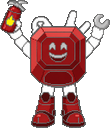
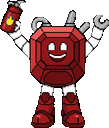
fix: corrige mascote do acerto e fecha os vaos do quiz e das regras
deu-bom.png tinha sido apagado do disco mas o CSS continuava apontando
para ele — o mascote do "Ih, deu bom!" carregava 404. Regerado a partir
do ilumaquinho-feliz.png novo, pelo mesmo pipeline dos outros sprites.

Quiz: enunciado e alternativas maiores, cards empurrados para baixo e
esticados para dividir a sobra (as 52 perguntas do banco tem sempre 4
alternativas, entao a divisao e previsivel). Medidas em vh porque a
faixa cobre de 1200px ao totem de 1920px e valor fixo estourava numa
janela de 1400px. A barra de fogo ficou intacta.

Regras: as duas linhas de cards passam a dividir a faixa livre, em vez
de deixar vermelho morto acima do botao.

Changed region(s): [[0.0, 0.0, 1.0, 1.0]]

diff --git a/static/css/style.css b/static/css/style.css
@@ -766,15 +766,16 @@ body {
 }
 
 /* ---- Regras: 4 cards, não lista ----
-   Os cards têm altura pelo próprio conteúdo, não esticada até preencher
-   a tela — mas o bloco também não fica plantado sozinho no meio de um
-   vermelho vazio: encosta perto do topo, como as outras telas. */
+   As duas linhas de cards dividem toda a faixa livre entre o título e o
+   botão. Com altura só de conteúdo sobrava um vão de vermelho morto
+   acima do rodapé; esticando as linhas o bloco fecha a tela. */
 .palco-regras { justify-content: flex-start; }
 
 .regras-grade {
-  flex: 0 1 auto;
+  flex: 1 1 auto;
   display: grid;
   grid-template-columns: repeat(2, 1fr);
+  grid-template-rows: repeat(2, minmax(0, 1fr));
   gap: 18px;
   margin: 0;
   padding: 0;
@@ -886,9 +887,13 @@ body {
   -webkit-overflow-scrolling: touch;
 }
 
+/* Todas as 52 perguntas do banco têm exatamente 4 alternativas, então
+   deixar os cards crescerem divide a sobra em quatro partes previsíveis —
+   é o que fecha o vão que ficava entre a última opção e a barra de fogo.
+   Em tela apertada o flex-grow não age e o overflow acima assume. */
 .alt-btn {
   display: flex;
-  flex: 0 1 auto;
+  flex: 1 1 auto;
   align-items: center;
   gap: 18px;
   width: 100%;
@@ -1671,10 +1676,25 @@ body {
   /* ---- quiz ---- */
   .quiz-meta { font-size: 0.88rem; }
   #quiz-pontos { font-size: 1rem; }
-  .quiz-pergunta { font-size: clamp(2.1rem, 4vw, 2.8rem); }
-  .quiz-alternativas { gap: 32px; }
-  .alt-btn { min-height: 140px; font-size: 1.6rem; padding: 34px 38px; gap: 32px; }
-  .alt-letra { width: 92px; height: 92px; font-size: 1.3rem; }
+  /* Tipografia e alturas em vh, não em valor fixo: esta faixa vai de 1200px
+     até o totem de 1920px, e o que preenche a tela lá estoura numa janela
+     de 1400px. A margem maior sob o enunciado empurra os cards para baixo. */
+  .quiz-pergunta {
+    font-size: clamp(1.7rem, 2.9vh, 2.6rem);
+    margin-bottom: clamp(28px, 2.6vh, 56px);
+  }
+  .quiz-alternativas { gap: clamp(20px, 1.7vh, 32px); }
+  .alt-btn {
+    min-height: clamp(105px, 7.8vh, 150px);
+    font-size: clamp(1.5rem, 2.3vh, 1.85rem);
+    padding: clamp(24px, 1.8vh, 34px) 40px;
+    gap: 32px;
+  }
+  .alt-letra {
+    width: clamp(72px, 5vh, 96px);
+    height: clamp(72px, 5vh, 96px);
+    font-size: clamp(1.1rem, 1.5vh, 1.4rem);
+  }
 
   .barra-trilho { height: 46px; }
   .barra-rotulo { font-size: 0.8rem; }
